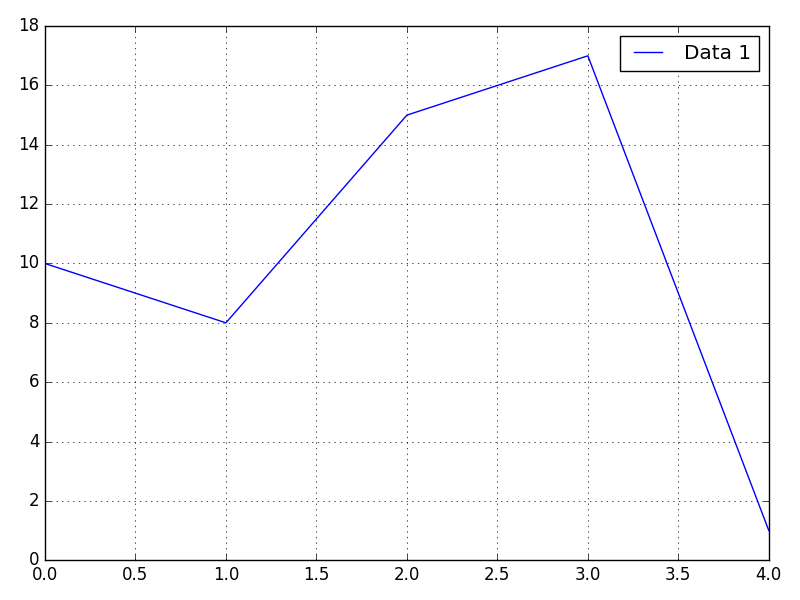
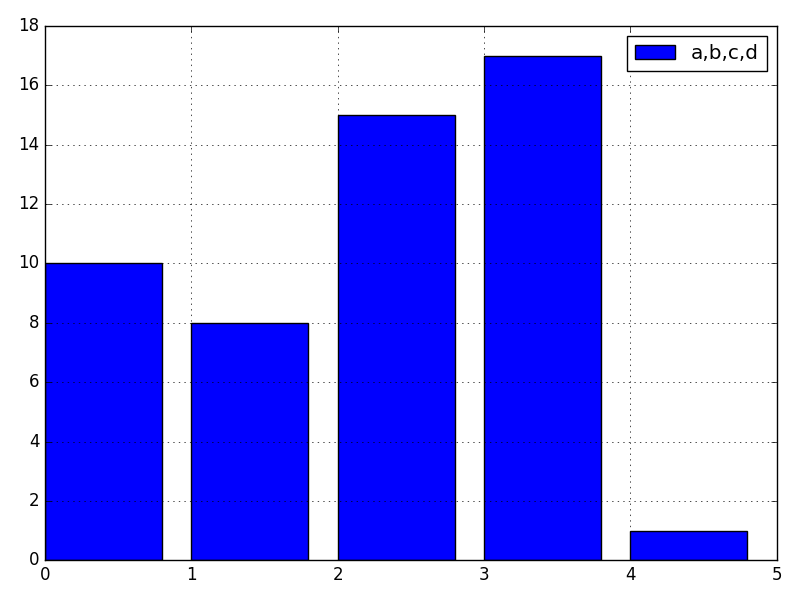
Allow BAR charts, and update MD

diff --git a/graph_generator.py b/graph_generator.py
@@ -36,7 +36,13 @@ class GraphGenerator():
             else:
                 label = 'Data %i' % (line_number + 1)
 
-            axes[i].plot(d['x'],d['y'],label=label)
+
+            # Type of graph
+            if args.type == 'bar':
+                axes[i].bar(d['x'],d['y'],label=label)
+            else:
+                axes[i].plot(d['x'],d['y'],label=label)
+                
             
             if args.subplot:
                 i += 1
@@ -84,7 +90,16 @@ class GraphGenerator():
     def save_and_show(self, args):
         plt.savefig(self.filename)
         plt.show()
+
+valid_graph_types = ['bar','line']
+
+def parse_graph_type(s):
     
+    if not s in valid_graph_types:
+        raise argparse.ArgumentTypeError("Graph type has to be one of the following: %s or " % (",".join(valid_graph_types[:-1], valid_graph_types[-1])))
+    else:
+        return s
+
 def parse_data_args(s):
     try:   
         
@@ -111,10 +126,9 @@ def parse_data_args(s):
                     'y': [float(i) for i in y.split(',')],
                     'label' : label }
         else:
-            raise argparse.ArgumentTypeError("Input should either be --data x0,x1 or --data x0,x1;y0,y1")
-
+            raise argparse.ArgumentTypeError("Input should either be --data-set \"y0\", --data-set \"y0;x0\", --data-set \"y0;TITLE\" or --data-set \"y0;x0;TITLE\"")
     except:
-        raise argparse.ArgumentTypeError("Input should either be --data x0,x1 or --data x0,x1;y0,y1")
+        raise argparse.ArgumentTypeError("Input should either be --data-set \"y0\", --data-set \"y0;x0\", --data-set \"y0;TITLE\" or --data-set \"y0;x0;TITLE\"")
 
 # graph_generator.py --title "Magnus plot" --labels "x" --data 1,3,1,3,1;1,2,3,4,5 
 if __name__ == '__main__':
@@ -130,29 +144,22 @@ if __name__ == '__main__':
     parser.add_argument('--title', action='append', required=False, default=[])
 
     parser.add_argument('--data-set', dest="data", type=parse_data_args, required=True, action="append",
-                        help='y and x and label separated by \';\' examples: (--data-set 1,4,5;6,1,2;THROUGHPUT --data-set 1,4,5;delay, --data-set 1,4,5;6,1,2). Multiple --data-set is allowed.')
+                        help='y and x and TITLE separated by \';\' examples: (--data-set 1,4,5;6,1,2;THROUGHPUT --data-set 1,4,5;delay, --data-set 1,4,5;6,1,2). Multiple --data-set is allowed.')
 
     parser.add_argument('--filename', "-f", action='store', required=False, default='graph.png' ,
         help='Filename to save. Default: graph.png')
 
+
+    parser.add_argument('--graph-type', dest="type", type=parse_graph_type, default=None)
+    
     parser.add_argument('--sharex', action="store_true", required=False, default=True)
     parser.add_argument('--sharey', action="store_true", required=False, default=False)
     parser.add_argument('--sub-plots', dest="subplot", action="store_true", required=False)
 
     args = parser.parse_args()
+    print(args.type)
     print(args.data)
-    #args = lambda: None
-    #args.xlim = None
-    #args.ylim = None
-    #args.title = 'Magnus plot'
-    #args.xlabel = "Seconds"
-    #args.ylabel = "Throughput"
-    #args.filename = 'tpt.png'
-    
-    #args.data = []
-    #args.data.append(parse_data_args("1,3,1,3,1;1,2,3,4,5"))
-    #args.data.append(parse_data_args("4,3,4,2,4"))
-    
+
     small_plot = GraphGenerator(args)
     small_plot.save_and_show(args)
     

diff --git a/README.MD b/README.MD
@@ -3,13 +3,48 @@
 A simple python tool for linux to generate graphs using the Matplotlib. 
 Purpose was to create a simple way of generating graphs using one liners in the terminal
 
-Examples:
 
- # Data for the y-axis
- DATA="10,8,15,17,1"
- python graph_generator.py --data-set "$DATA"
- 
+### Help
+```bash
+usage: graph_generator.py [-h] [--xlabel XLABEL] [--ylabel YLABEL]
+                          [--xlim XLIM XLIM] [--ylim YLIM YLIM]
+                          [--title TITLE] --data-set DATA
+                          [--filename FILENAME] [--sharex] [--sharey]
+                          [--sub-plots]
+
+optional arguments:
+  -h, --help            show this help message and exit
+  --xlabel XLABEL
+  --ylabel YLABEL
+  --xlim XLIM XLIM
+  --ylim YLIM YLIM
+  --title TITLE
+  --data-set DATA       y and x and label separated by ';' examples: (--data-
+                        set 1,4,5;6,1,2;THROUGHPUT --data-set 1,4,5;delay,
+                        --data-set 1,4,5;6,1,2). Multiple --data-set is
+                        allowed.
+  --filename FILENAME, -f FILENAME
+                        Filename to save. Default: graph.png
+  --sharex
+  --sharey
+  --sub-plots
+
+```
+### Examples
+
+Examples:
+```bash
+# Data for the y-axis
+DATA="10,8,15,17,1"
+python graph_generator.py --data-set "$DATA"
+```
 Output:
 
-![GitHub Logo](/images/example_1.png)
-Format: ![Alt Text](url)
+![Example 1](/images/example_1.png)
+
+
+## Possible improvements
+* Use strings on the x-axis instead of numbers
+* Automatically choose colors of bar charts
+* Being able to specify color, width and type of line or bar charts
+* Allow other type of charts
